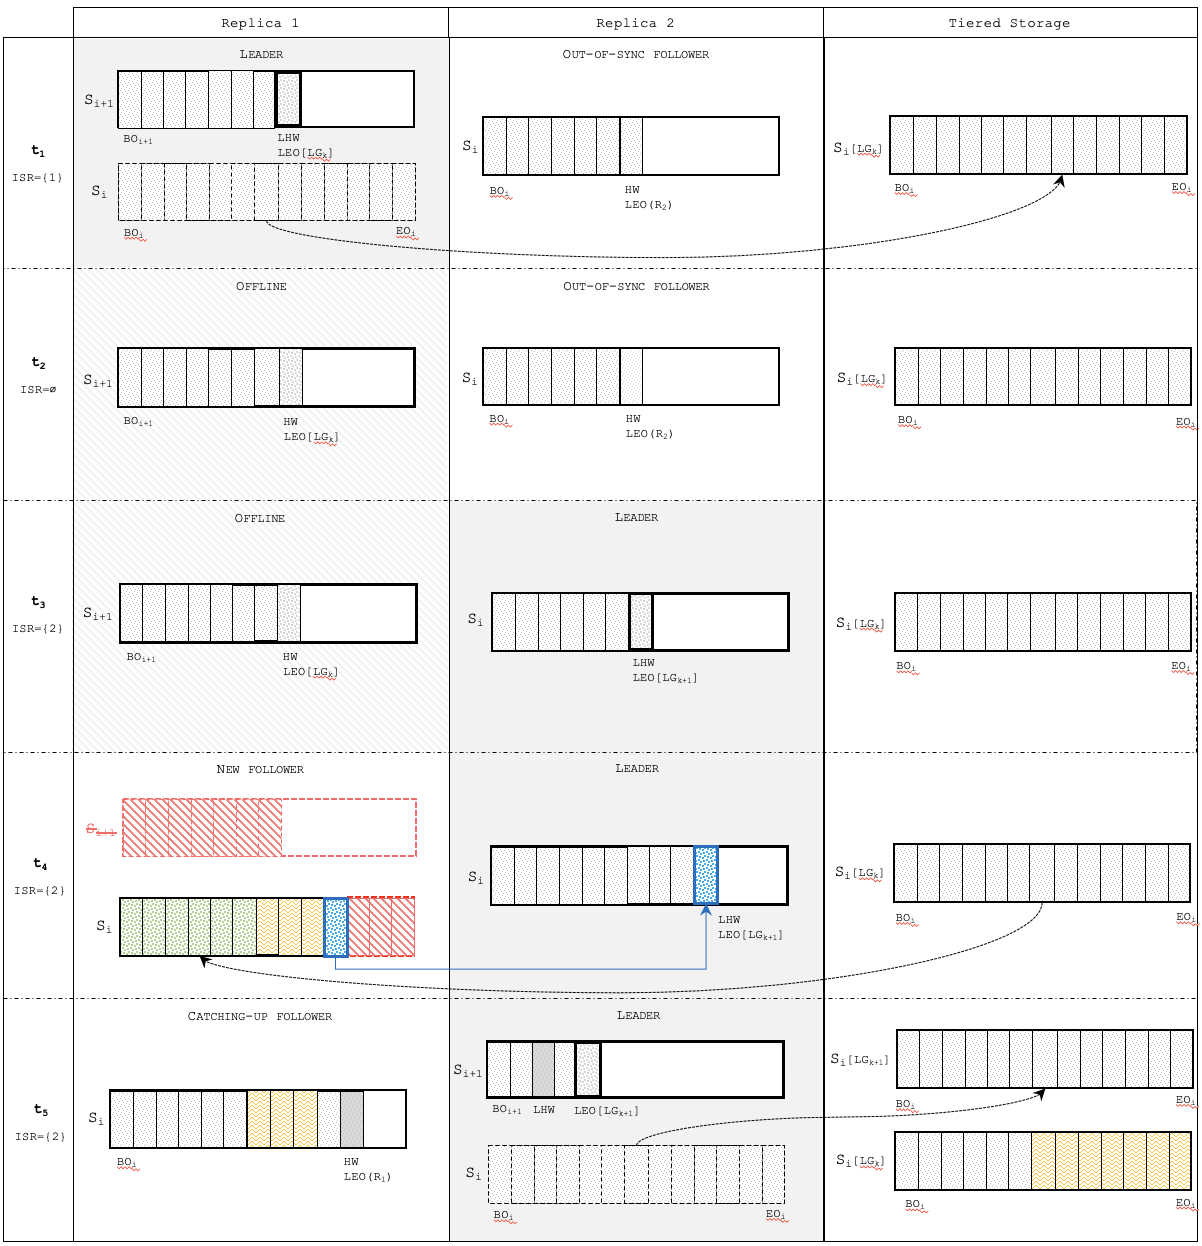
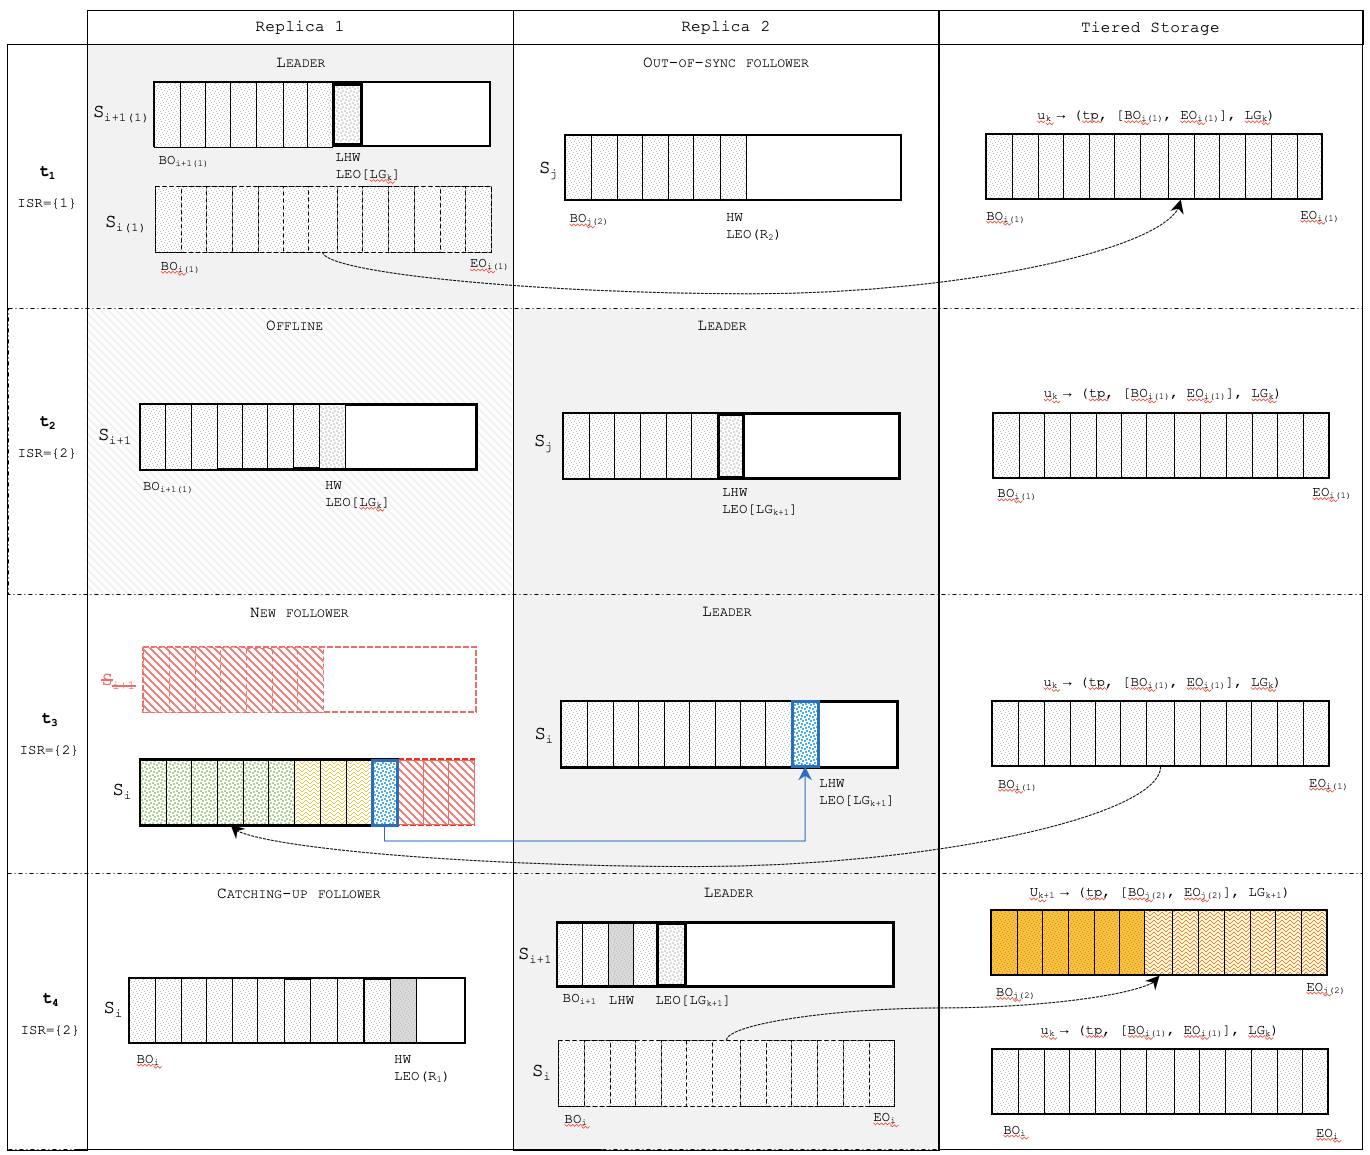
Preservation of local replica lineage in case of diverging replicas partially or totally tiered.

diff --git a/unclean leader election.tex b/unclean leader election.tex
@@ -20,48 +20,53 @@
 
 \begin{document}
 
+\section{Disclaimer}
+This document is a work-in-progress and is likely to be loaded with inaccuracies. To be taken with caution.
+
 \section{Objectives}
-The purpose of this document is to describe how tiered log segments are handled to preserve a uniform access to data.
+The purpose of this document is to describe how remote log segments (offloaded to a tiered storage and not available in brokers log directories) are handled to guarantee an access to data agnostic of the storage tier.
 
-\subsection{Data uniformity}
 
-The targeted functional behaviour is to provide the same data to consumers regardless of the origin of these data. This \textit{uniformity} property requires to reproduce the current behaviour of Apache Kafka for which log segments are always accessed locally. Especially, the current specifications under divergence of log lineage should be preserved, and no discrepancy should be introduced in the data a consumer would expect to find with or without tiered storage.
+\subsection{Data Uniform Access}
 
-\subsection{Log lineage divergence and remote duplication}
+One \textbf{possible} functional behaviour could be to provide the same data to consumers regardless of the origin \footnote{i.e., informally, whether the data is stored and read from either the first (local) or second (remote) tier.} of these data. This \textit{uniformity} requires to reproduce the current behaviour of Apache Kafka for which log segments are always accessed locally.
 
-It is possible that a log segment which is offloaded (uploaded) to a tiered storage presents offset overlap or contains duplicated and/or divergent records with already tiered log segments (as after an unclean leader election).
-Such cases will be studied thereafter and the expected behaviour described.
+If \textit{data uniformity} is chosen, the current specifications under divergence of log lineage should be preserved, and no discrepancy should be introduced in the data a consumer would expect to find with or without tiered storage.
 
-\section{Log lineage divergence}
+\subsection{Notations}
+Consider a topic-partition. In this document, we will note $S_i^r$ the i-th segment of a replica $r \in AR$ and $[BO_i^r..EO_i^r]$ the range of offsets of $S_i^r$ from the base offset $BO_i^r$ to the end offset $EO_i^r$. The log end offset at epoch $k$ is referred to as $LEO_k$\footnote{$LEO[LG_K]$ in figures.}.
 
-One consequence of unclean leader election is a possible divergence of log lineages which can happen when leadership of a topic-partition moves to an out-of-sync replica. 
+\section{Preservation of local replica lineage in case of diverging replicas partially or totally tiered}
 
-Let us consider the following illustrative example. A topic-partition is made of two replicas 1 and 2. In order to simplify, we assume a strict correspondance of log segment base and end offsets in both replicas. The cases where this cannot be assumed will be explored later in the document.
+One consequence of unclean leader election is a possible divergence of log lineages which can happen when leadership of a topic-partition moves to an out-of-sync replica. It is possible that a log segment which is offloaded (uploaded) to a tiered storage presents offset overlap or contains duplicated and/or divergent records with already tiered log segments
 
-Let $S_i$ be the i-th log segment in either replica and $BO_i$ and $EO_i$ the base and end offsets of $S_i$. 
-
-Let us assume unclean leader election is enabled. 
+Let us consider the following simplified example. A topic-partition is made of two replicas 1 and 2 on a cluster with tiered storage available and unclean leader election enabled. 
 
 \begin{outline}[enumerate]
-	\1 At $t_1$, replica 1 is the leader and replica 2 is out of ISR. The segment $S_i$ has been rolled over in replica 1, for which $S_{i+1}$ is the active segment. Since the ISR is reduced to the leader replica, the leader high watermark of the leader can progress and follow the log end offset. Assume there is no transactional records, so that the log stable offset corresponds to the leader high watermark, or, without loss of generality, assume the LSO points to an offset of $S_{i+1}$. The segment $S_i$ is therefore eligible for tiering. Assume the leader of replica 1 offloads successfully $S_i$. Assume that afterwards, that segment is locally deleted following the configured log's retention policy.
-	\1  At $t_2$, replica 1 become offline and replica 2 becomes the only online replica of the topic-partition.
-	\1  At $t_3$, replica 2 uncleanly acquires the leadership of the topic-partition and the leader epoch is incremented from $k$ to $k + 1$.
-	\1  At $t_4$, replica 1 is online and becomes a follower of replica 2. It starts replicating with a fetch offset set to its high watermark, the last offset of segment $S_{i+1}$. This offset is ahead of the latest offset of replica 2, and the first replication fetch request fails (index out of bound). The follower then fetches the LEO for generation $k+1$ or $LEO_{k+1}$. It truncates its local segment to the returned offset.
-	\2 Without tiered storage - segment $S_i$ was deleted from the local storage and the local log start offset is ahead of $LEO_{k+1}$. Therefore, the follower truncates fully (i.e. delete all current segments) and creates a new segment with a start offset equal to $LEO_{k+1}$, and start fetching from that offset.
-	\2 With tiered storage - a segment which includes $LEO_{k+1}$ in its offset range is present in the tiered storage. 
-	\3 This segment can be ignored and the behaviour would be the same as without tiered storage.
-	\3 The segment can be onloaded and promoted back to an active segment, truncated to $LEO_{k+1}$, and replication would start from that offset. Some records of replica 1 diverge from replica 2.
-	\1 Replica 2 ingests more records. Segment $S_i$ is rolled over. Because it is part of the log lineage at generation $k+1$. and offloaded to the tiered storage.
-	
-
-	
+	\1 At $t_1$, replica 1 is the leader and replica 2 is out of the ISR set. The segment $S_i^1$ has been rolled over, and $S_{i+1}^1$ is the active segment or replica 1. Since the ISR is reduced to the leader replica, the leader high watermark can progress to the log end offset $LEO_k$. Assume there is no transactional records, so that the log stable offset corresponds to the leader high watermark, so that segment $S_i^1$ is eligible for tiering. Assume the leader 1 offloads successfully $S_i^1$ which is mapped to the unique ID $u_k$. Assume that afterwards, that segment is locally deleted to honor the configured log's retention policy.
+	\1  At $t_2$, replica 1 becomes offline and replica 2, then only live replica of the topic-partition, is elected as the leader. Leader generation is incremented from $k$ to $k + 1$.
+	\1  At $t_3$, replica 1 is back online and becomes a follower of replica 2. It truncates its local log to $LEO_{k+1}$, which is outside of the range of offsets covered by the local segments. However, assume that $LEO_{k+1} \in [BO_i^1..EO_i^1]$ which is a range of offsets covered in the tiered storage. Also, note that by construction of this example, the leader epoch of replica 1 before becoming follower is $k$. The follower 1 then decides to onload the segment with the key $u_k$. Truncation to $LEO_{k+1}$ then occurs as would have initially been for a local segment. In this example, this results in few diverging records, which were produced to $S_j^2$ but not replicated to $S(u_k)$.
+	\1 At $t_4$, replica 2 ingested enough records for the segment $S_j^2$ to be rolled-over and tiered, assuming the necessary conditions are met. This results in two segments in the tiered storage with duplicated and divergent records.
 \end{outline}
 
+The principle guiding this proposal is to offer a uniform data access to consumers. This means the behaviour needs to be exactly identical whether the $S_i^1$ is remote or local.
+
 \begin{center}
-	\includegraphics[scale=0.45]{unclean1.png}
-	\captionof{figure}{}
+	\includegraphics[scale=0.4]{unclean1.png}
+	\captionof{figure}{Use of tiered segments to preserve local replica lineage.}
 \end{center}
 
+Shoud the segments $S(u_k)$ and $S(u_{k+1})$ be reconciled or deleted? 
+
+Let us consider this follow-up use case, where a third replica is added to the previous example. This replica shares the same lineage as replica 1 up to generation $k$, then becomes offline at the same time as replica 1. It comes back online long after the latter, and replica 2 has produced segments $S_j^2$, $S_{j+1}^2$ and $S_{j+2}^2$. Assume $S_i^1$ is replicated by $S_i^3$ in replica 3, and that the latter is not available locally as it was deleted based on log retention policies. Replica 3 should follow the same replication steps as replica 1 to construct its lineage post-generation $k$.
+
+The problem is segments $S_j^2$, $S_{j+1}^2$ and $S_{j+2}^2$ may be tiered and not available locally. That means that, to reconstruct its lineage, replica 3 would have to replicate segments from the tiered storage. One could argue that replica 3 could just replicate borrow the same lineage as replica 1 - but nothing guarantees lineage has not diverged after generation $k$ ! To illustrate this, imagine that before replica 3 is back online, replica 2 goes offline and replica 1 takes back leadership, ingests some records beyond $LEO_{k+1}$, then goes offline again, then replica 2 comes back and re-acquire leadership and resume ingesting. To preserve iso-functionality with local log segments, replica 3 needs to follow the exact same replication step to construct its lineage - and in the previous example, once replica 3 catches up with replica 2, lineages or replica 1 and 3 have diverged !
+
+Note that evicting segments from the tiered storage for any of the replica \textit{lineage} could lead to catastrophic data loss. Consider the scenario where a topic-partition has three replicas, one of which has been offline for a month due to a misconfiguration. During a maintenance operation, the two "healthy" partitions are put offline and the "invalid" partition brought back online, empty. Unclean leader election is enabled and therefore the partition becomes leader. The one-month worth of data of the "healthy" replicas should be preserved, regardless of how many offsets and remote segments overlap with the new replica.
+
+To allow tiered storage to preserve the durability guarantees of Apache Kafka, even under unclean leader election, all replica lineages would need to be kept.
+
+\section{Objectives}
 
 
 \end{document}
